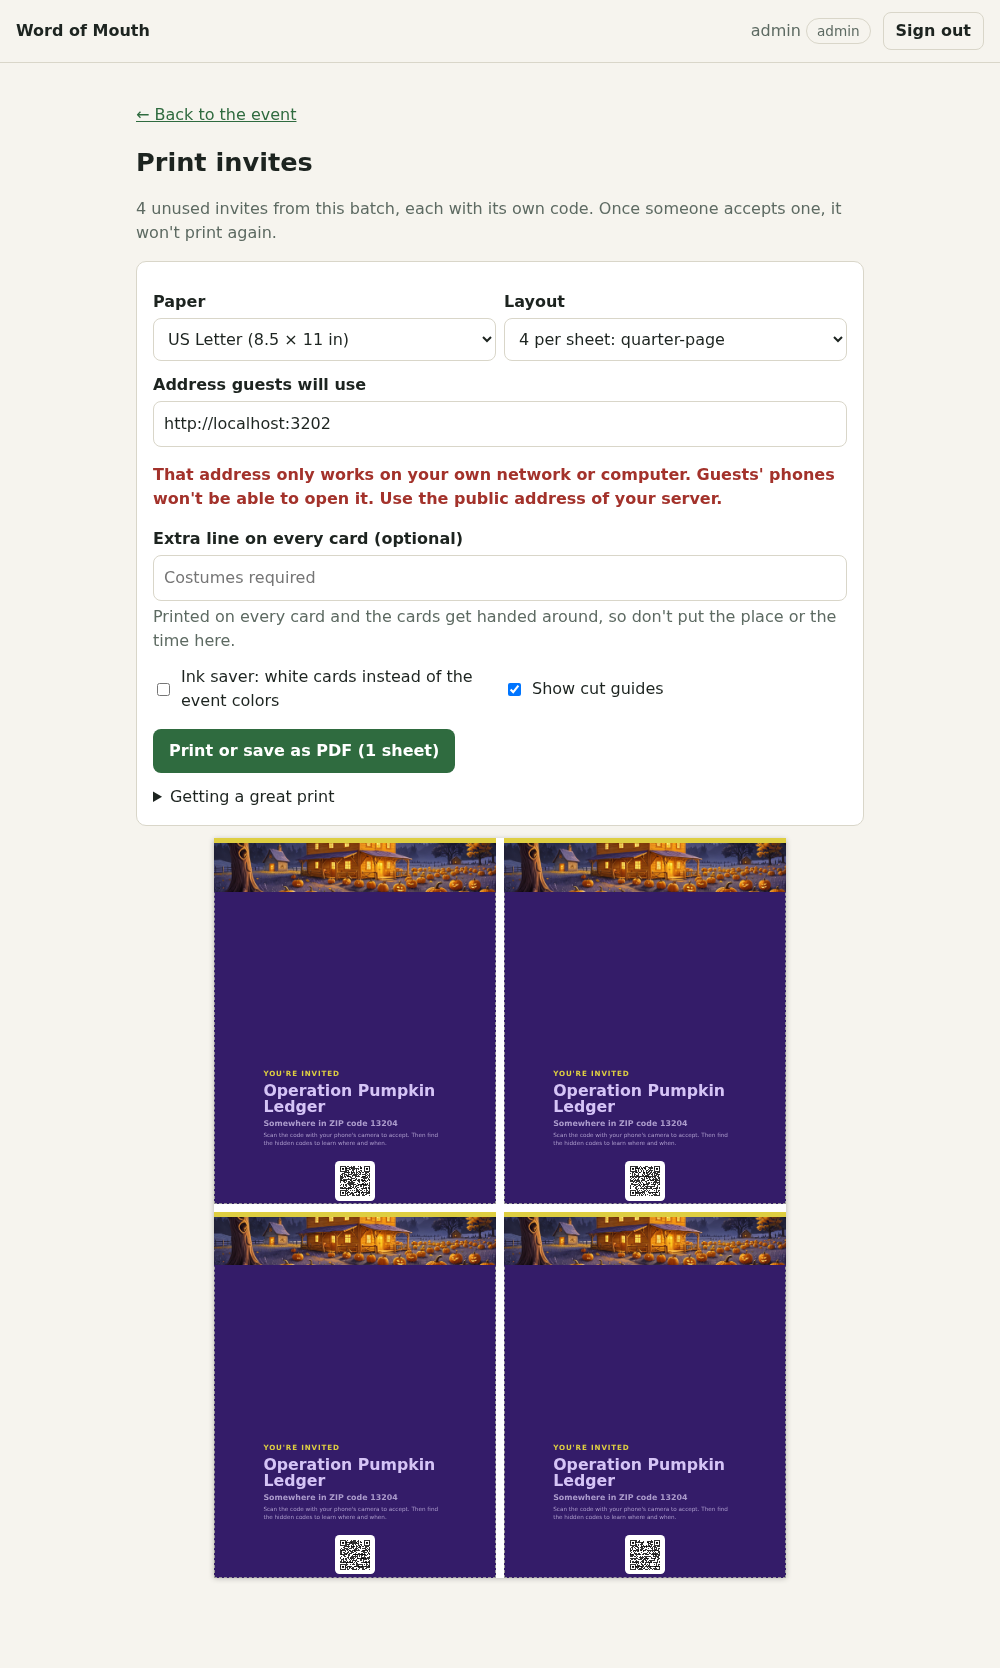
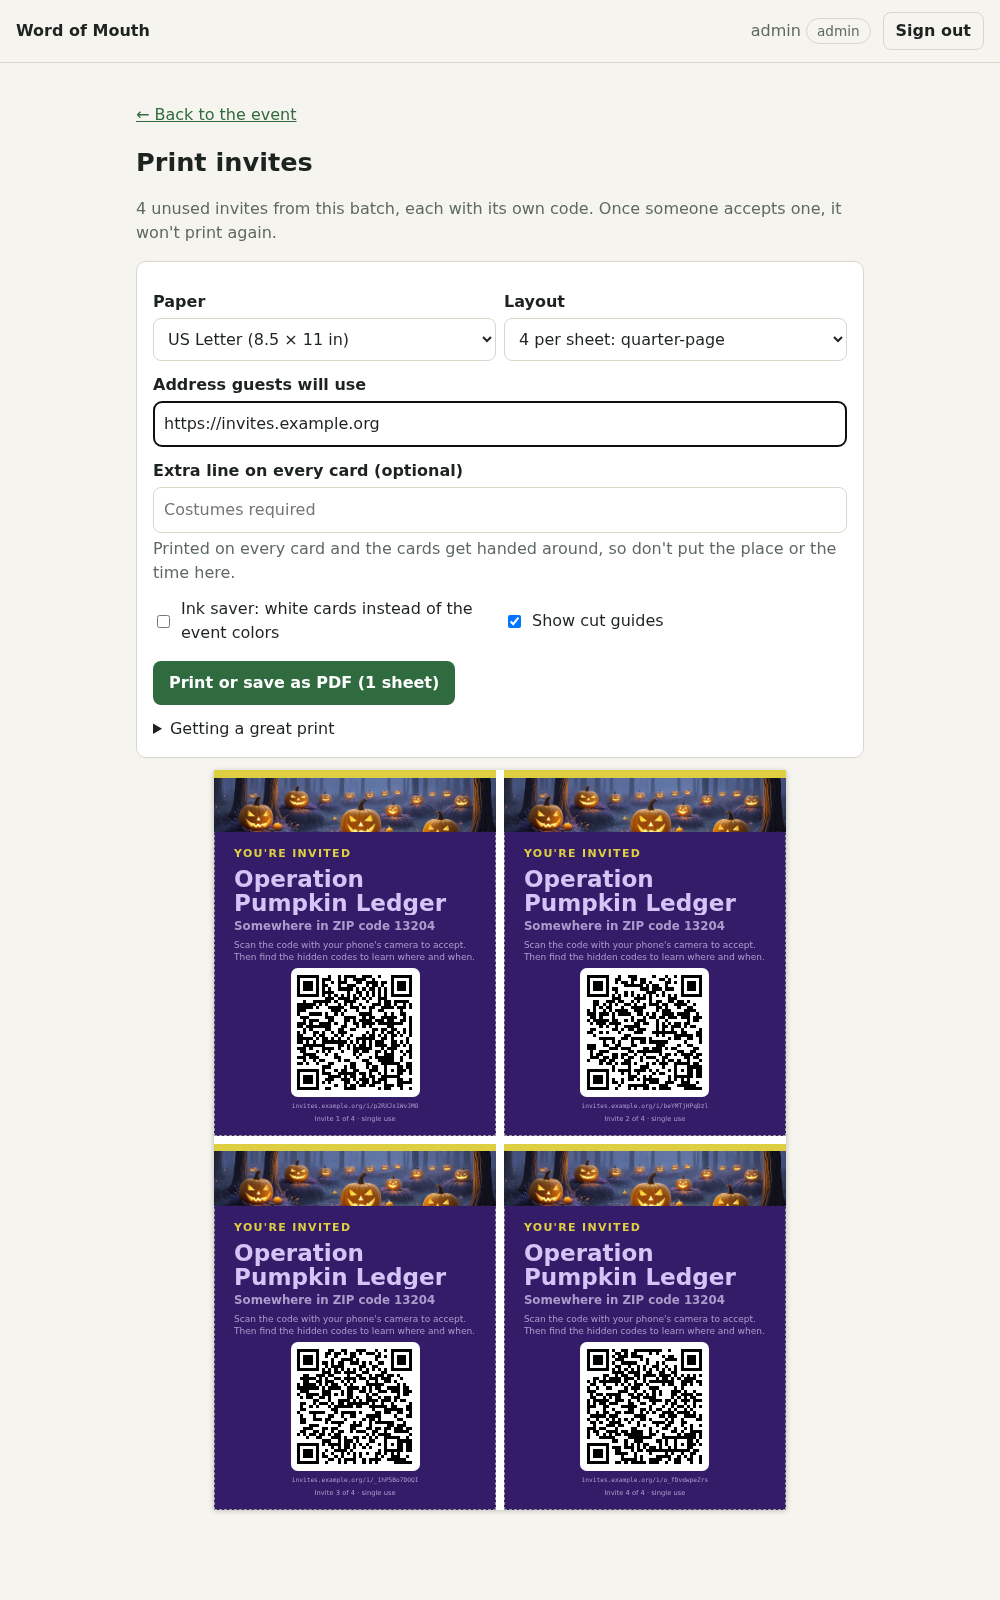
Fix printed invite card layout, add README gallery
Print layout
- Cards sized their own padding in container-query units. Those units on a
  container's own properties resolve against the window, not the card, so the
  padding was far too large on small cards. That squeezed the QR code to about
  18 mm on the 4-up layout with a picture (it should be 40+ mm) and let the
  last lines run off the bottom of the 1-up and 4-up cards without a picture.
- The card is now a bare container with an inner wrapper that carries the
  padding, so everything inside sizes against the real card.
- Portrait sizes were re-fitted so even a three-line title fits, and the QR
  can no longer be shrunk by flex layout.

Tests
- The QR decode test could not catch this: at print density even a too-small
  code decodes. Both end-to-end suites now also measure each QR's printed width
  in millimetres (30 mm minimum) and check that nothing runs past a card's edge.
  The print suite also covers a 57-character event name on all 8 layouts, and
  can be re-run on the same database. Verified the size check fails on the old
  layout (11 mm) and passes on the new one (32 mm or more on every layout).

README
- A gallery of a guest's journey and the organizer's tools, using small cropped
  copies in docs/readme. Screenshots now show a realistic public address.

diff --git a/src/app/globals.css b/src/app/globals.css
@@ -67,56 +67,57 @@ header.top button { padding: 6px 12px; }
 .theme-scope { background: var(--bg); color: var(--fg); }
 
 /* ---- Printable invite sheets (see print/invites). Sizes use the card's own width/height (cq units) so one
-   design works at 1, 2, 4 or 8 per sheet on Letter or A4. ---- */
+   design works at 1, 2, 4 or 8 per sheet on Letter or A4.
+   NOTE: cq units on the container's OWN properties (its padding, gap) resolve against the window, not the card.
+   So the card is a bare container and `.ic-inner` carries the padding; everything inside sizes against the card. ---- */
 .sheets { zoom: 0.7; margin-top: 16px; }
 .sheet { display: grid; background: #fff; margin: 0 auto 10mm; overflow: hidden; box-shadow: 0 1px 8px rgba(0, 0, 0, 0.25); break-after: page; }
 .sheet:last-child { break-after: auto; }
 .sheet, .sheet * { -webkit-print-color-adjust: exact; print-color-adjust: exact; }
-.invite-card { container-type: size; box-sizing: border-box; position: relative; overflow: hidden; display: flex; background: var(--bg, #fff); color: var(--fg, #111); font-family: system-ui, sans-serif; }
+.invite-card { container-type: size; box-sizing: border-box; position: relative; overflow: hidden; background: var(--bg, #fff); color: var(--fg, #111); font-family: system-ui, sans-serif; }
 .invite-card.ink { background: #fff; color: #000; --accent: #000; --muted: #333; }
 .sheet.guides .invite-card { outline: 0.25mm dashed #9a9a9a; outline-offset: -0.25mm; }
+.ic-inner { box-sizing: border-box; width: 100%; height: 100%; display: flex; }
 .invite-card p, .invite-card h2 { margin: 0; }
 .invite-card .ic-title { font-weight: 800; line-height: 1.05; overflow-wrap: break-word; display: -webkit-box; -webkit-box-orient: vertical; -webkit-line-clamp: 3; overflow: hidden; }
 .invite-card .ic-kicker { color: var(--accent); font-weight: 700; letter-spacing: 0.12em; text-transform: uppercase; }
 .invite-card .ic-zip, .invite-card .ic-how, .invite-card .ic-num { color: var(--muted, #444); }
 .invite-card .ic-msg { font-weight: 700; }
-.invite-card .ic-qrbox { background: #fff; line-height: 0; }
+.invite-card .ic-qrbox { background: #fff; line-height: 0; flex: none; }
 .invite-card .ic-qrbox svg { width: 100%; height: 100%; display: block; }
 .invite-card .ic-link { font-family: ui-monospace, monospace; color: var(--muted, #444); word-break: break-all; }
-.invite-card .ic-cover { object-fit: cover; display: block; flex: none; }
-
+.invite-card .ic-cover { object-fit: cover; display: block; flex: none; position: absolute; left: 0; top: 0; }
 /* an accent stripe gives the card a designed edge */
 .invite-card::before { content: ""; position: absolute; background: var(--accent, #000); z-index: 1; }
 
 /* portrait: the 1-up and 4-up cards */
-.invite-card.portrait { flex-direction: column; justify-content: space-between; padding: 7cqw 7cqw 6cqw; gap: 3cqw; }
+.portrait .ic-inner { flex-direction: column; justify-content: space-between; padding: 7cqw 7cqw 6cqw; gap: 3cqw; }
 .portrait::before { left: 0; right: 0; top: 0; height: 2.6cqw; }
-.portrait .ic-cover { position: absolute; left: 0; top: 0; width: 100%; height: 26cqw; max-width: none; }
+.portrait .ic-cover { width: 100%; height: 26cqw; }
 .portrait .ic-kicker { font-size: 3.9cqw; }
-.portrait .ic-title { font-size: 10.5cqw; margin-top: 1.5cqw; }
-.portrait .ic-zip { font-size: 4.8cqw; margin-top: 2cqw; font-weight: 600; }
-.portrait .ic-msg { font-size: 5cqw; margin-top: 2.5cqw; }
-.portrait .ic-how { font-size: 3.8cqw; margin-top: 2.5cqw; line-height: 1.3; }
-.portrait .ic-qr { display: flex; flex-direction: column; align-items: center; gap: 1.4cqw; }
-.portrait .ic-qrbox { width: min(56cqw, 40cqh); aspect-ratio: 1; padding: 3.2cqw; border-radius: 2.4cqw; box-sizing: content-box; }
-.portrait .ic-link { font-size: 2.5cqw; text-align: center; max-width: 100%; }
-.portrait .ic-num { font-size: 2.7cqw; text-align: center; }
-
+.portrait .ic-title { font-size: 8.8cqw; margin-top: 1.5cqw; }
+.portrait .ic-zip { font-size: 4.4cqw; margin-top: 2cqw; font-weight: 600; }
+.portrait .ic-msg { font-size: 4.6cqw; margin-top: 2.5cqw; }
+.portrait .ic-how { font-size: 3.4cqw; margin-top: 2cqw; line-height: 1.3; }
+.portrait .ic-qr { display: flex; flex-direction: column; align-items: center; gap: 1.4cqw; flex: none; }
+.portrait .ic-qrbox { width: 44cqw; aspect-ratio: 1; padding: 3cqw; border-radius: 2.4cqw; box-sizing: content-box; }
+.portrait .ic-link { font-size: 2.4cqw; text-align: center; max-width: 100%; }
+.portrait .ic-num { font-size: 2.6cqw; text-align: center; }
 /* with a picture the portrait card has less room, so everything is a little smaller */
-.portrait.has-cover { gap: 2cqw; padding-top: 33cqw; padding-bottom: 5cqw; }
-.portrait.has-cover .ic-cover { height: 29cqw; }
-.portrait.has-cover .ic-title { font-size: 8.6cqw; }
-.portrait.has-cover .ic-zip { font-size: 4.3cqw; margin-top: 1cqw; }
-.portrait.has-cover .ic-how { font-size: 3.1cqw; margin-top: 1.5cqw; }
-.portrait.has-cover .ic-qrbox { width: min(38cqw, 30cqh); padding: 2.6cqw; }
+.portrait.has-cover .ic-inner { gap: 1.5cqw; padding-top: 27cqw; padding-bottom: 4cqw; }
+.portrait.has-cover .ic-cover { height: 22cqw; }
+.portrait.has-cover .ic-title { font-size: 8.2cqw; }
+.portrait.has-cover .ic-zip { font-size: 4.2cqw; margin-top: 1cqw; }
+.portrait.has-cover .ic-how { font-size: 3.2cqw; margin-top: 1.5cqw; }
+.portrait.has-cover .ic-qrbox { width: 41cqw; padding: 2.4cqw; }
 .portrait.has-cover .ic-link { font-size: 2.2cqw; }
 .portrait.has-cover .ic-num { font-size: 2.4cqw; }
 
 /* landscape: the 2-up and 8-up cards. Text on the left, code on the right. */
-.invite-card.landscape { flex-direction: row; align-items: center; padding: 4.5cqw 4.5cqw 4.5cqw 6cqw; gap: 3cqw; }
+.landscape .ic-inner { flex-direction: row; align-items: center; padding: 4.5cqw 4.5cqw 4.5cqw 6cqw; gap: 3cqw; }
 .landscape::before { left: 0; top: 0; bottom: 0; width: 1.8cqw; }
-.landscape .ic-cover { position: absolute; left: 0; top: 0; bottom: 0; width: 22cqw; height: 100%; }
-.landscape .ic-cover + .ic-text { margin-left: 19cqw; }
+.landscape .ic-cover { width: 22cqw; height: 100%; }
+.landscape.has-cover .ic-inner { padding-left: 25cqw; }
 .landscape .ic-text { flex: 1; min-width: 0; }
 .landscape .ic-kicker { font-size: 2.8cqw; }
 .landscape .ic-title { font-size: 5.6cqw; margin-top: 0.8cqw; }
@@ -124,7 +125,7 @@ header.top button { padding: 6px 12px; }
 .landscape .ic-msg { font-size: 3.3cqw; margin-top: 1.4cqw; }
 .landscape .ic-how { font-size: 2.55cqw; margin-top: 1.6cqw; line-height: 1.3; }
 .landscape .ic-qr { display: flex; flex-direction: column; align-items: center; gap: 0.9cqw; flex: none; }
-.landscape .ic-qrbox { width: min(31cqw, 58cqh); aspect-ratio: 1; padding: 2cqw; border-radius: 1.5cqw; box-sizing: content-box; }
+.landscape .ic-qrbox { width: 31cqw; aspect-ratio: 1; padding: 2cqw; border-radius: 1.5cqw; box-sizing: content-box; }
 .landscape .ic-link { font-size: 1.55cqw; text-align: center; max-width: 37cqw; overflow-wrap: anywhere; }
 .landscape .ic-num { font-size: 1.7cqw; text-align: center; }
 

diff --git a/src/app/print/invites/[id]/invite-sheet.tsx b/src/app/print/invites/[id]/invite-sheet.tsx
@@ -174,19 +174,21 @@ export function InviteSheet({ event, invites, defaultBase, batch, coverUrl }: { 
                   // eslint-disable-next-line @next/next/no-img-element
                   <img className="ic-cover" src={coverUrl} alt="" />
                 )}
-                <div className="ic-text">
-                  <p className="ic-kicker">You&apos;re invited</p>
-                  <h2 className="ic-title">{event.codename}</h2>
-                  <p className="ic-zip">Somewhere in ZIP code {event.zip}</p>
-                  {message && <p className="ic-msg">{message}</p>}
-                  <p className="ic-how">Scan the code with your phone&apos;s camera to accept. Then find the hidden codes to learn where and when.</p>
-                </div>
-                <div className="ic-qr">
-                  <div className="ic-qrbox" role="img" aria-label={`QR code for invite ${inv.n}`} dangerouslySetInnerHTML={{ __html: svgs[inv.code] ?? "" }} />
-                  <p className="ic-link">{urlFor(inv.code).replace(/^https?:\/\//, "")}</p>
-                  <p className="ic-num">
-                    Invite {pad(inv.n, inv.of)} of {inv.of} · single use
-                  </p>
+                <div className="ic-inner">
+                  <div className="ic-text">
+                    <p className="ic-kicker">You&apos;re invited</p>
+                    <h2 className="ic-title">{event.codename}</h2>
+                    <p className="ic-zip">Somewhere in ZIP code {event.zip}</p>
+                    {message && <p className="ic-msg">{message}</p>}
+                    <p className="ic-how">Scan the code with your phone&apos;s camera to accept. Then find the hidden codes to learn where and when.</p>
+                  </div>
+                  <div className="ic-qr">
+                    <div className="ic-qrbox" role="img" aria-label={`QR code for invite ${inv.n}`} dangerouslySetInnerHTML={{ __html: svgs[inv.code] ?? "" }} />
+                    <p className="ic-link">{urlFor(inv.code).replace(/^https?:\/\//, "")}</p>
+                    <p className="ic-num">
+                      Invite {pad(inv.n, inv.of)} of {inv.of} · single use
+                    </p>
+                  </div>
                 </div>
               </article>
             ))}

diff --git a/README.md b/README.md
@@ -6,7 +6,21 @@ An organizer seals the *when and where* of an event. The key is split across a f
 
 Everything runs on your own machine: a self-hosted web app, a local open-weight language model through [Ollama](https://ollama.com), your own [ComfyUI](https://github.com/comfyanonymous/ComfyUI) for pictures, and open map data. No accounts with anyone, no API keys.
 
-![The door screen](docs/screenshots/18-door-screen.png)
+<table>
+  <tr>
+    <td align="center" valign="top"><img src="docs/readme/guest-hunt.jpg" width="230" alt="A guest's phone showing an event page in a purple theme with a painted pumpkin-field picture, the codename, a ZIP code, and three clues; the location is hidden"><br><sub><b>Find it.</b> A guest sees the event's theme and artwork, a ZIP code and clues. Nothing else.</sub></td>
+    <td align="center" valign="top"><img src="docs/readme/guest-unlocked.png" width="230" alt="A guest's phone showing the event's title, date, venue, address and notes after two hidden codes were scanned"><br><sub><b>Unlock it.</b> Find enough hidden codes and the details decrypt on the phone.</sub></td>
+    <td align="center" valign="top"><img src="docs/readme/guest-checked-in.png" width="230" alt="A guest's phone showing a large green check mark and the words You're in"><br><sub><b>Get in.</b> At the door the phone proves it's on the guest list, once.</sub></td>
+  </tr>
+</table>
+
+<table>
+  <tr>
+    <td align="center" valign="top"><img src="docs/readme/studio.jpg" width="280" alt="The image studio: a prompt written by the local model, and two candidate pictures of glowing pumpkins in a forest painted by ComfyUI"><br><sub><b>Make it yours.</b> Your local model writes the prompt, ComfyUI paints candidates, you choose one.</sub></td>
+    <td align="center" valign="top"><img src="docs/readme/print-sheet.jpg" width="280" alt="A letter-size sheet of four invite cards, each with a picture banner, the event name, a large unique QR code and an invite number"><br><sub><b>Print it.</b> Unique single-use invites, 1, 2, 4 or 8 to a sheet.</sub></td>
+    <td align="center" valign="top"><img src="docs/readme/door.png" width="280" alt="The door screen: a large QR code that changes after every guest, and a count of tickets checked in"><br><sub><b>Run the door.</b> A one-time QR that changes after every guest.</sub></td>
+  </tr>
+</table>
 
 ## What it does
 
@@ -57,7 +71,7 @@ WOM_ADMIN_PASSWORD='a long password' pnpm dev   # creates the first admin on fir
 | `pnpm typecheck` | TypeScript |
 | `pnpm screenshots` | Drives the running app in headless Chrome and saves screenshots to `docs/screenshots` |
 | `pnpm tsx scripts/e2e-door.mts` | Real-browser test of the whole door flow (set `BASE` and `ADMIN_PASSWORD`) |
-| `pnpm tsx scripts/e2e-print.mts` | Makes a batch of invites, renders every paper and layout, and reads each QR code back out of the rendered pixels |
+| `pnpm tsx scripts/e2e-print.mts` | Makes a batch of invites, renders every paper and layout, reads each QR code back out of the rendered pixels, measures its printed size in millimetres (it must be 30 mm or more), and checks that nothing runs past a card's edge, including with a very long event name |
 | `pnpm tsx scripts/e2e-images.mts` | Needs real Ollama and ComfyUI: writes a prompt, paints pictures, and checks the privacy rules and the printed cards |
 
 ## Configuration
